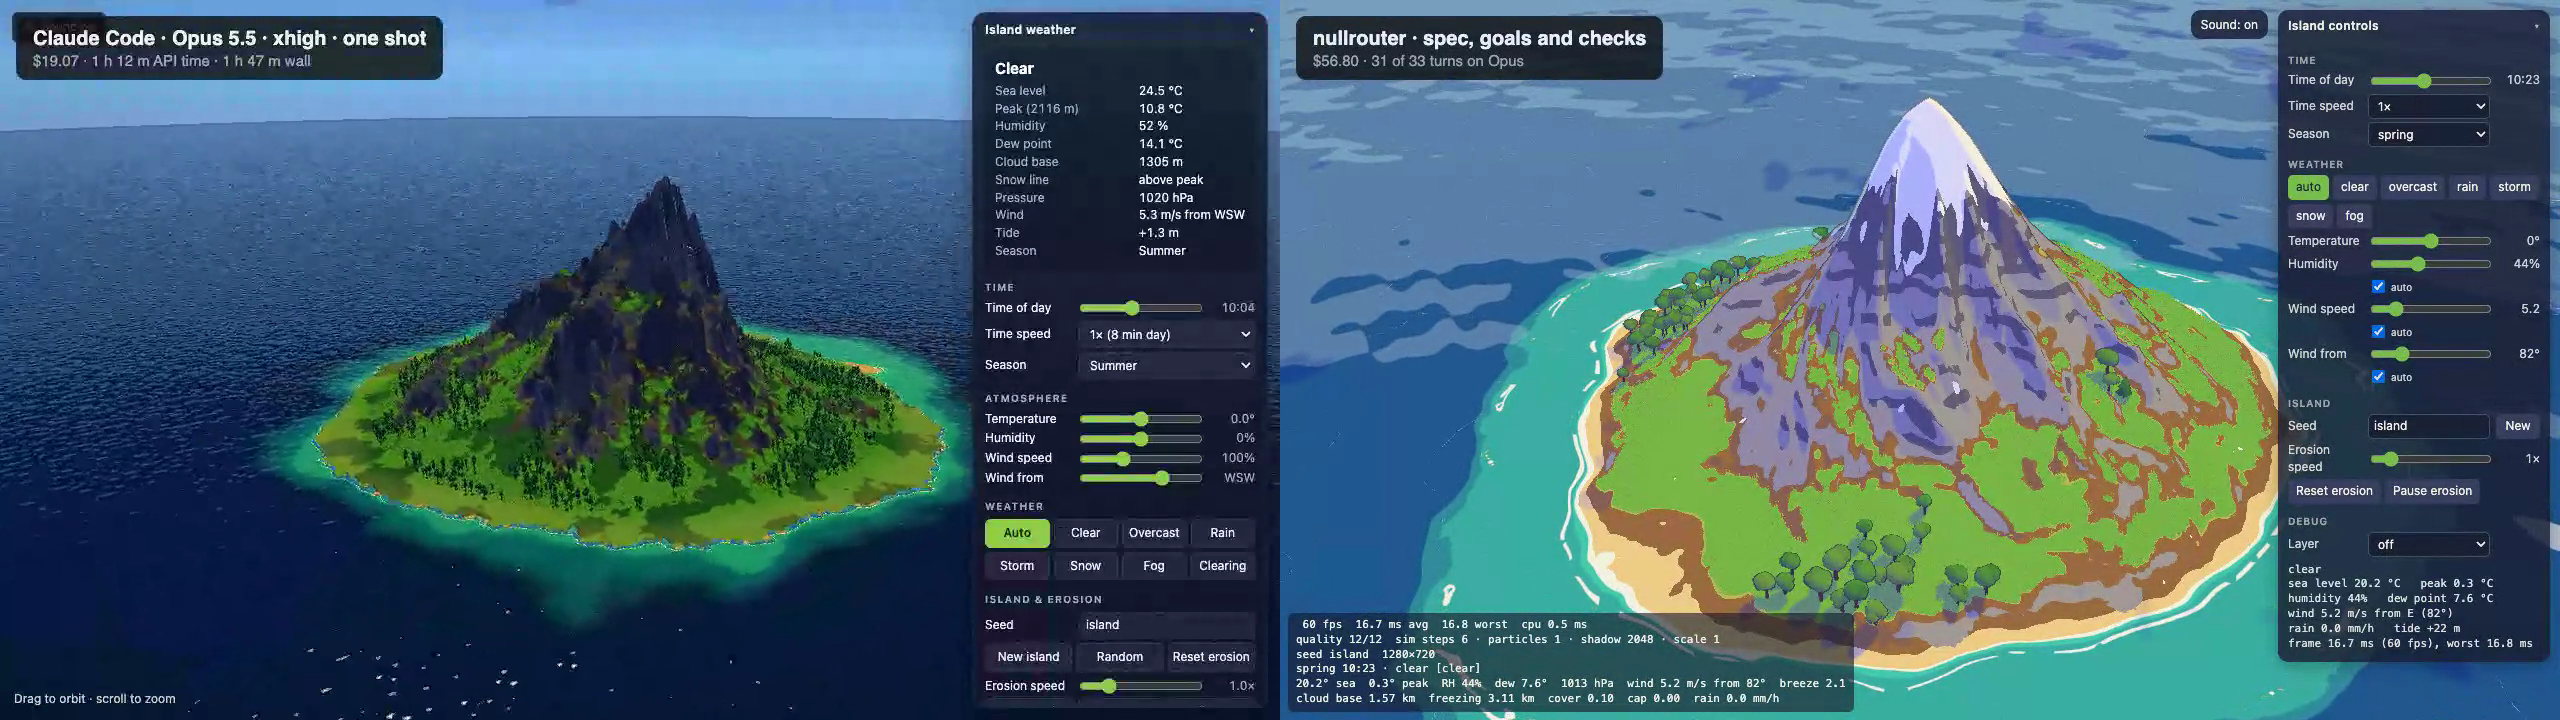
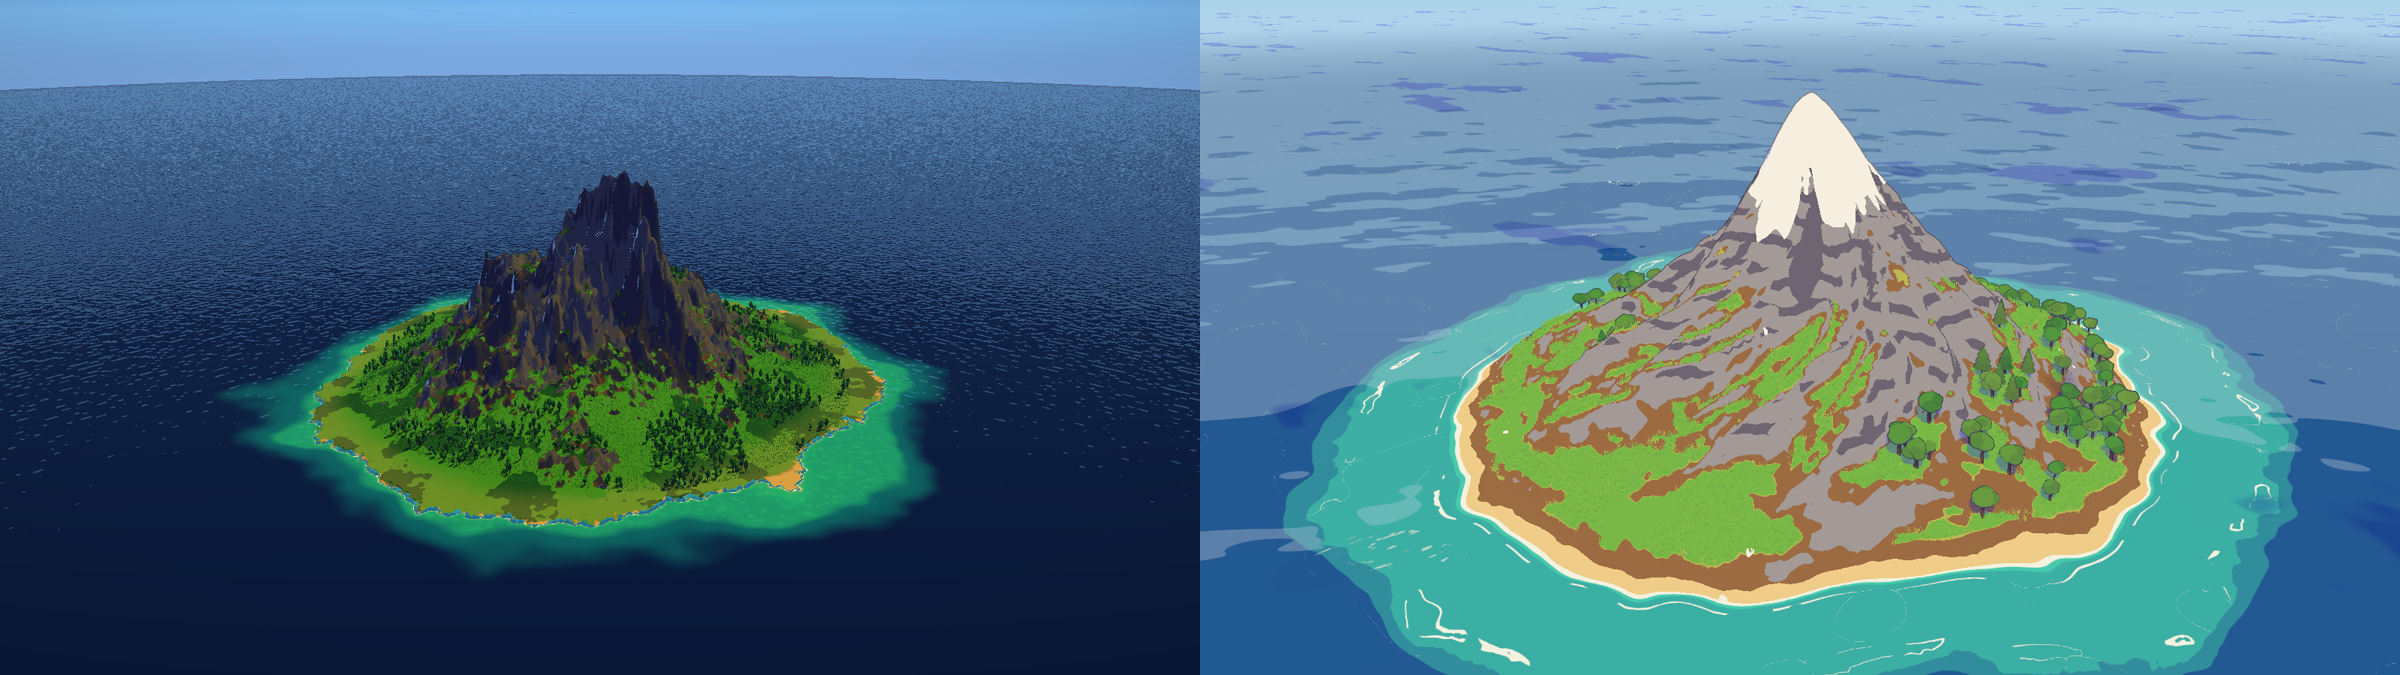
Replace the comparison image with matched-angle shots
Both builds are captured at default camera distance with the control panels
hidden, plus an overhead and a side-on angle. The README notes that the prompt
asks for a cel-shaded look.

diff --git a/2026-10-14-island-one-shot-vs-spec/README.md b/2026-10-14-island-one-shot-vs-spec/README.md
@@ -13,6 +13,16 @@ the finished page, not a recording of the build.
 
 ![Claude Code build (left) and router build (right)](images/both-scenes.png)
 
+Both frames are at each page's default camera distance, with the control
+panels hidden, the same time of day and the same seed. More angles:
+[overhead](images/both-scenes-overhead.png) and
+[side-on](images/both-scenes-angle.png).
+
+The prompt asks for a cel-shaded look: "a toon ramp of three or four hard light
+bands", ink outlines drawn in a post-process pass, and "one limited,
+hand-picked palette", in the manner of The Wind Waker. Flat colour bands and
+outlines are what it asks for, not a rendering fault.
+
 ## Result
 
 | | Claude Code | Router (spec, goals, checks) | Ratio |
